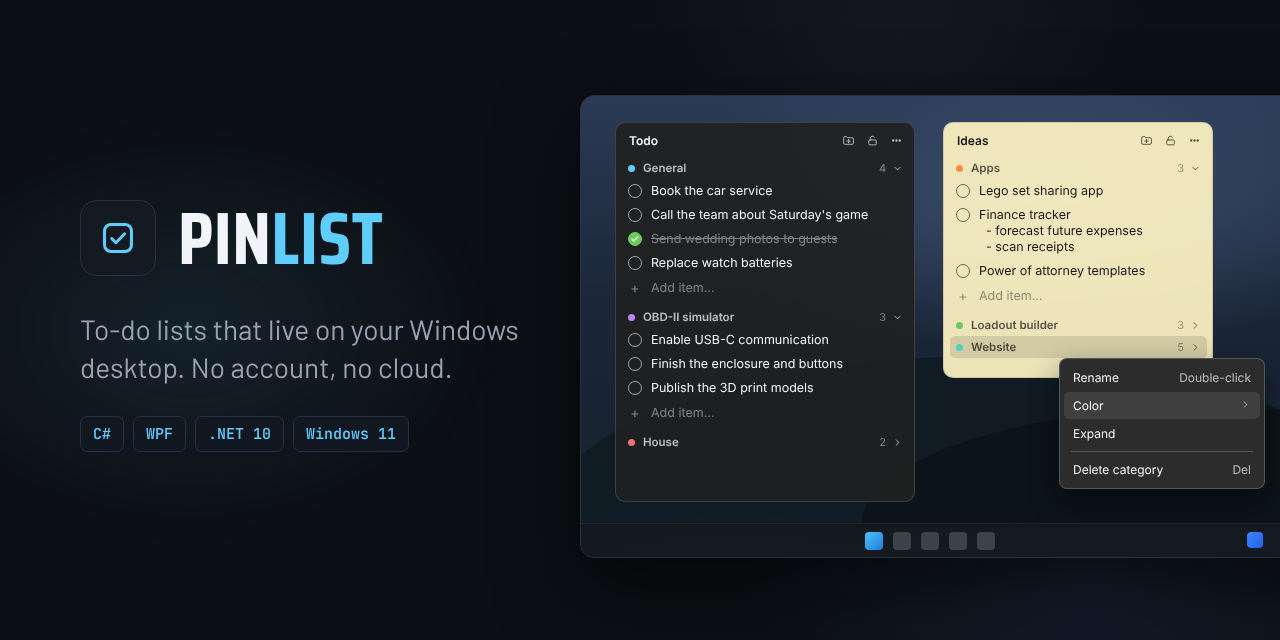
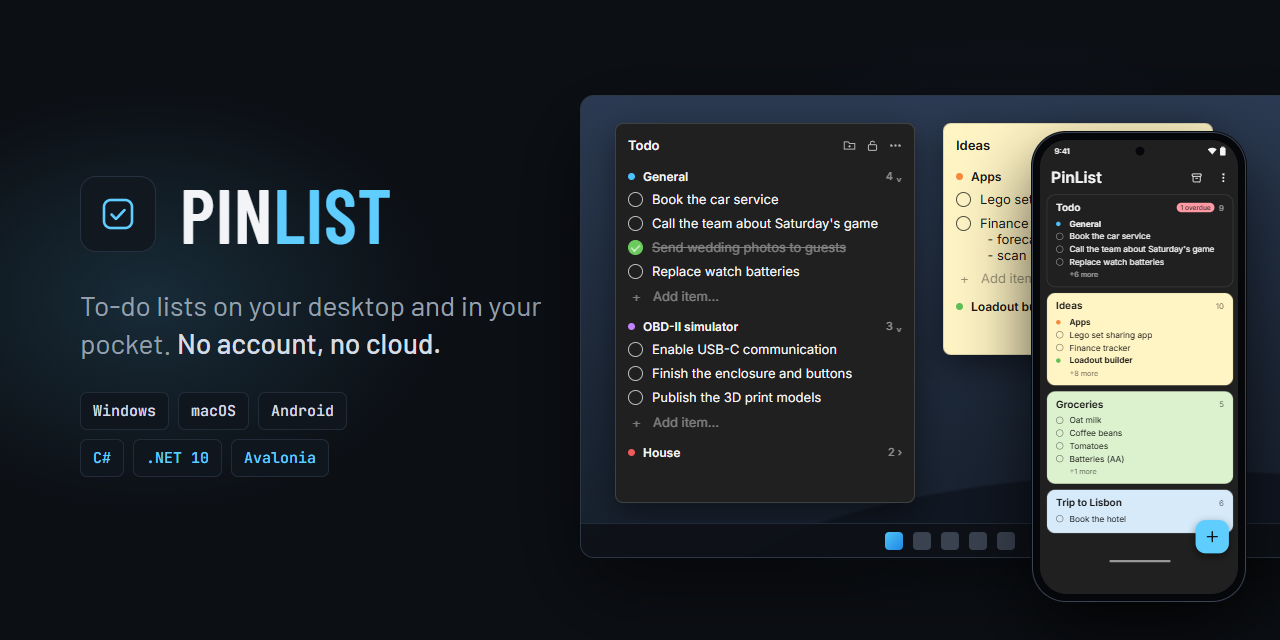
Fix release action

diff --git a/docs/social-preview.html b/docs/social-preview.html
@@ -1,0 +1,272 @@
+<!doctype html>
+<!--
+  Source of docs/social-preview.png (1280 × 640, the GitHub social preview and the README banner).
+  To update the image, edit this file and render it with Chrome:
+    chrome --headless=new --hide-scrollbars --force-device-scale-factor=1 --window-size=1280,640
+           --virtual-time-budget=5000 --screenshot=docs/social-preview.png docs/social-preview.html
+  Colors come from src/PinList.UI/Themes.cs; the phone matches the cards screen in PhoneView.axaml.
+-->
+<html lang="en">
+<head>
+<meta charset="utf-8">
+<title>PinList social preview</title>
+<link rel="preconnect" href="https://fonts.googleapis.com">
+<link href="https://fonts.googleapis.com/css2?family=Barlow:wght@400;500&family=Barlow+Condensed:wght@600&family=Inter:wght@400;500;600&family=JetBrains+Mono:wght@500&display=block" rel="stylesheet">
+<style>
+  :root {
+    --bg: #0c0f14;
+    --accent: #60cdff;
+    --text: #f2f4f7;
+    --muted: #96a0ae;
+  }
+  * { box-sizing: border-box; margin: 0; padding: 0; }
+  html, body { width: 1280px; height: 640px; overflow: hidden; background: var(--bg); }
+  body {
+    position: relative;
+    font-family: Inter, "Segoe UI", sans-serif;
+    color: var(--text);
+    background:
+      radial-gradient(420px 300px at 150px 300px, rgba(52, 110, 140, .30), transparent 70%),
+      radial-gradient(520px 420px at 1000px 330px, rgba(40, 70, 110, .22), transparent 70%),
+      var(--bg);
+  }
+
+  /* ---------- Left: logo, tagline, badges ---------- */
+  .brand { position: absolute; left: 80px; top: 176px; width: 470px; }
+  .logo { display: flex; align-items: center; gap: 24px; }
+  .logo-box {
+    width: 76px; height: 76px; border-radius: 16px;
+    background: #121820; border: 1px solid #253040;
+    display: grid; place-items: center;
+  }
+  .wordmark {
+    font-family: "Barlow Condensed", sans-serif; font-weight: 600;
+    font-size: 76px; line-height: 1; letter-spacing: 1px;
+  }
+  .wordmark span { color: var(--accent); }
+  .tagline {
+    margin-top: 34px;
+    font-family: Barlow, sans-serif; font-size: 28px; line-height: 38px; color: var(--muted);
+  }
+  .tagline b { font-weight: 500; color: #d6dce4; }
+  .badges { margin-top: 30px; display: flex; flex-wrap: wrap; gap: 9px; }
+  .badge {
+    font-family: "JetBrains Mono", monospace; font-weight: 500; font-size: 15px; color: var(--accent);
+    padding: 8px 12px; border-radius: 7px; background: #10161e; border: 1px solid #222c39;
+  }
+  .badge.platform { color: #d6dce4; }
+
+  /* ---------- Right: a desktop with two widgets ---------- */
+  .screen {
+    position: absolute; left: 580px; top: 95px; width: 740px; height: 463px;
+    border-radius: 14px 0 0 14px; overflow: hidden;
+    border: 1px solid #2c3746;
+    background:
+      radial-gradient(900px 260px at 620px 520px, #101722 55%, transparent 56%),
+      linear-gradient(180deg, #2b3a52 0%, #1d2838 60%, #161f2c 100%);
+    box-shadow: 0 30px 80px rgba(0, 0, 0, .55);
+  }
+  .bar {
+    position: absolute; left: 0; right: 0; bottom: 0; height: 34px;
+    background: rgba(12, 16, 22, .88); border-top: 1px solid #222b38;
+    display: flex; justify-content: center; align-items: center; gap: 10px;
+  }
+  .bar i { width: 18px; height: 18px; border-radius: 4px; background: #3a4250; }
+  .bar i:first-child { background: linear-gradient(135deg, #4fc3f7, #1e88e5); }
+
+  .widget {
+    position: absolute; border-radius: 8px; padding: 10px 12px;
+    font-size: 13px; box-shadow: 0 10px 30px rgba(0, 0, 0, .45);
+  }
+  .widget.dark { background: #202020; border: 1px solid rgba(255, 255, 255, .15); color: rgba(255, 255, 255, .95); }
+  .widget.yellow { background: #fff4c4; border: 1px solid rgba(0, 0, 0, .12); color: rgba(0, 0, 0, .9); }
+  .w-head { display: flex; align-items: center; justify-content: space-between; height: 22px; margin-bottom: 8px; }
+  .w-head b { font-weight: 600; font-size: 13px; }
+  .w-icons { display: flex; gap: 10px; opacity: .7; }
+  .cat { display: flex; align-items: center; gap: 8px; height: 24px; font-size: 12px; font-weight: 600; }
+  .dot { width: 7px; height: 7px; border-radius: 50%; }
+  .cat .n { margin-left: auto; font-weight: 400; opacity: .55; font-size: 11px; display: flex; gap: 6px; align-items: center; }
+  .item { display: flex; align-items: flex-start; gap: 9px; min-height: 24px; padding: 3px 0; line-height: 16px; }
+  .circle { flex: none; width: 15px; height: 15px; border-radius: 50%; border: 1.4px solid currentColor; opacity: .75; margin-top: 1px; }
+  .item.done span { text-decoration: line-through; opacity: .45; }
+  .item.done .circle { background: #6ccb5f; border-color: #6ccb5f; opacity: 1; position: relative; }
+  .item.done .circle::after {
+    content: ""; position: absolute; left: 4px; top: 1.5px; width: 4px; height: 7px;
+    border: solid #fff; border-width: 0 1.6px 1.6px 0; transform: rotate(45deg);
+  }
+  .add { display: flex; gap: 10px; align-items: center; height: 24px; opacity: .45; padding-left: 2px; }
+
+  /* ---------- The phone (Android cards screen, dark theme) ---------- */
+  .phone {
+    position: absolute; left: 1032px; top: 132px; width: 214px; height: 470px;
+    border-radius: 34px; padding: 7px; background: #05070a;
+    border: 1.5px solid #3a4352;
+    box-shadow: 0 30px 70px rgba(0, 0, 0, .7), 0 0 0 1px #0b0e13;
+  }
+  .phone-screen {
+    position: relative; width: 100%; height: 100%; border-radius: 27px; overflow: hidden; background: #202020;
+  }
+  /* The screen is drawn at real Android size (360 dp wide) and scaled down */
+  .app {
+    position: absolute; left: 0; top: 0; width: 360px; height: 768px;
+    transform: scale(.5556); transform-origin: 0 0;
+    font-size: 16px; color: rgba(255, 255, 255, .95);
+  }
+  .status { height: 34px; display: flex; align-items: center; justify-content: space-between; padding: 6px 26px 0; font-size: 14px; font-weight: 500; }
+  .status .cam { position: absolute; left: 50%; top: 12px; width: 16px; height: 16px; margin-left: -8px; border-radius: 50%; background: #05070a; }
+  .status .sys { display: flex; gap: 6px; align-items: center; }
+  .home-head { display: flex; align-items: center; margin: 10px 6px 6px 20px; height: 48px; }
+  .home-head h1 { font-size: 28px; font-weight: 600; flex: 1; }
+  .home-head .btn { width: 48px; height: 48px; display: grid; place-items: center; }
+  .card {
+    margin: 0 12px 10px; padding: 12px 16px 14px; border-radius: 16px; border: 1px solid;
+  }
+  .card.dark { background: #202020; border-color: rgba(255, 255, 255, .15); color: rgba(255, 255, 255, .95); }
+  .card.dark .muted { color: rgba(255, 255, 255, .55); }
+  .card.yellow { background: #fff4c4; border-color: rgba(0, 0, 0, .12); color: rgba(0, 0, 0, .9); }
+  .card.green { background: #dcf2ce; border-color: rgba(0, 0, 0, .12); color: rgba(0, 0, 0, .9); }
+  .card.blue { background: #d6eafa; border-color: rgba(0, 0, 0, .12); color: rgba(0, 0, 0, .9); }
+  .card .muted { color: rgba(0, 0, 0, .59); }
+  .card-head { display: flex; align-items: center; margin-bottom: 7px; }
+  .card-head b { flex: 1; font-size: 18px; font-weight: 600; }
+  .pill { font-size: 12px; padding: 1px 7px; border-radius: 9px; margin: 0 8px; }
+  .card.dark .pill { background: #ff99a4; color: #202020; }
+  .card-head .muted { font-size: 14px; }
+  .line { display: flex; align-items: center; height: 23px; font-size: 15px; white-space: nowrap; }
+  .line .lead { width: 24px; flex: none; }
+  .line .lead .dot { width: 8px; height: 8px; }
+  .line .lead .ring { width: 13px; height: 13px; border-radius: 50%; border: 1.4px solid currentColor; opacity: .6; }
+  .line.c { font-weight: 600; }
+  .line span { overflow: hidden; text-overflow: ellipsis; }
+  .more { font-size: 13px; margin: 3px 0 0 24px; }
+  .fab {
+    position: absolute; right: 20px; bottom: 24px; width: 60px; height: 60px; border-radius: 18px;
+    background: #60cdff; display: grid; place-items: center; box-shadow: 0 6px 16px rgba(0, 0, 0, .45);
+  }
+  .gesture { position: absolute; left: 50%; bottom: 8px; width: 110px; height: 4px; margin-left: -55px; border-radius: 2px; background: rgba(255, 255, 255, .55); }
+</style>
+</head>
+<body>
+
+  <div class="brand">
+    <div class="logo">
+      <div class="logo-box">
+        <svg width="34" height="34" viewBox="0 0 34 34" fill="none" stroke="#60cdff" stroke-width="2.6" stroke-linecap="round" stroke-linejoin="round">
+          <rect x="3" y="3" width="28" height="28" rx="7"/>
+          <path d="M10.5 17.5l4.5 4.5 8.5-9"/>
+        </svg>
+      </div>
+      <div class="wordmark">PIN<span>LIST</span></div>
+    </div>
+    <p class="tagline">To-do lists on your desktop and in your pocket. <b>No account, no cloud.</b></p>
+    <div class="badges">
+      <span class="badge platform">Windows</span>
+      <span class="badge platform">macOS</span>
+      <span class="badge platform">Android</span>
+    </div>
+    <div class="badges" style="margin-top: 9px">
+      <span class="badge">C#</span>
+      <span class="badge">.NET 10</span>
+      <span class="badge">Avalonia</span>
+    </div>
+  </div>
+
+  <div class="screen">
+    <!-- Todo widget (dark) -->
+    <div class="widget dark" style="left: 34px; top: 27px; width: 300px; height: 380px">
+      <div class="w-head"><b>Todo</b>
+        <div class="w-icons">
+          <svg width="13" height="13" viewBox="0 0 16 16" fill="none" stroke="currentColor" stroke-width="1.3"><path d="M1.5 4.5v8h13v-7H8L6.5 3.5h-5z"/><path d="M8 7.5v3M6.5 9h3"/></svg>
+          <svg width="13" height="13" viewBox="0 0 16 16" fill="none" stroke="currentColor" stroke-width="1.3"><rect x="3" y="7" width="10" height="7" rx="1.5"/><path d="M5.5 7V5a2.5 2.5 0 0 1 5 0"/></svg>
+          <svg width="13" height="13" viewBox="0 0 16 16" fill="currentColor"><circle cx="3" cy="8" r="1.4"/><circle cx="8" cy="8" r="1.4"/><circle cx="13" cy="8" r="1.4"/></svg>
+        </div>
+      </div>
+      <div class="cat"><i class="dot" style="background:#4cc2ff"></i>General<span class="n">4 ⌄</span></div>
+      <div class="item"><i class="circle"></i><span>Book the car service</span></div>
+      <div class="item"><i class="circle"></i><span>Call the team about Saturday's game</span></div>
+      <div class="item done"><i class="circle"></i><span>Send wedding photos to guests</span></div>
+      <div class="item"><i class="circle"></i><span>Replace watch batteries</span></div>
+      <div class="add">＋ <span>Add item…</span></div>
+      <div class="cat" style="margin-top: 6px"><i class="dot" style="background:#c084fc"></i>OBD-II simulator<span class="n">3 ⌄</span></div>
+      <div class="item"><i class="circle"></i><span>Enable USB-C communication</span></div>
+      <div class="item"><i class="circle"></i><span>Finish the enclosure and buttons</span></div>
+      <div class="item"><i class="circle"></i><span>Publish the 3D print models</span></div>
+      <div class="add">＋ <span>Add item…</span></div>
+      <div class="cat" style="margin-top: 6px"><i class="dot" style="background:#ef5b5b"></i>House<span class="n">2 ›</span></div>
+    </div>
+
+    <!-- Ideas widget (yellow) -->
+    <div class="widget yellow" style="left: 362px; top: 27px; width: 270px; height: 232px">
+      <div class="w-head"><b>Ideas</b>
+        <div class="w-icons">
+          <svg width="13" height="13" viewBox="0 0 16 16" fill="none" stroke="currentColor" stroke-width="1.3"><path d="M1.5 4.5v8h13v-7H8L6.5 3.5h-5z"/><path d="M8 7.5v3M6.5 9h3"/></svg>
+          <svg width="13" height="13" viewBox="0 0 16 16" fill="none" stroke="currentColor" stroke-width="1.3"><rect x="3" y="7" width="10" height="7" rx="1.5"/><path d="M5.5 7V5a2.5 2.5 0 0 1 5 0"/></svg>
+          <svg width="13" height="13" viewBox="0 0 16 16" fill="currentColor"><circle cx="3" cy="8" r="1.4"/><circle cx="8" cy="8" r="1.4"/><circle cx="13" cy="8" r="1.4"/></svg>
+        </div>
+      </div>
+      <div class="cat"><i class="dot" style="background:#f7893b"></i>Apps<span class="n">2 ⌄</span></div>
+      <div class="item"><i class="circle"></i><span>Lego set sharing app</span></div>
+      <div class="item"><i class="circle"></i><span>Finance tracker<br>&nbsp;&nbsp;- forecast future expenses<br>&nbsp;&nbsp;- scan receipts</span></div>
+      <div class="add">＋ <span>Add item…</span></div>
+      <div class="cat" style="margin-top: 4px"><i class="dot" style="background:#5fbf55"></i>Loadout builder<span class="n">3 ›</span></div>
+    </div>
+
+    <div class="bar"><i></i><i></i><i></i><i></i><i></i></div>
+  </div>
+
+  <div class="phone">
+    <div class="phone-screen">
+      <div class="app">
+        <div class="status">
+          <span>9:41</span><i class="cam"></i>
+          <span class="sys">
+            <svg width="16" height="14" viewBox="0 0 16 14" fill="currentColor"><path d="M8 13 0 4a12 12 0 0 1 16 0z"/></svg>
+            <svg width="10" height="16" viewBox="0 0 10 16" fill="currentColor"><rect x="2" y="0" width="6" height="2" rx="1"/><rect x="0" y="2" width="10" height="14" rx="2"/></svg>
+          </span>
+        </div>
+        <div class="home-head">
+          <h1>PinList</h1>
+          <span class="btn"><svg width="20" height="20" viewBox="0 0 20 20" fill="none" stroke="currentColor" stroke-width="1.6"><rect x="2" y="3" width="16" height="4.5" rx="1.2"/><path d="M3.5 7.5v8.5a1.5 1.5 0 0 0 1.5 1.5h10a1.5 1.5 0 0 0 1.5-1.5V7.5M8 11h4"/></svg></span>
+          <span class="btn"><svg width="20" height="20" viewBox="0 0 20 20" fill="currentColor"><circle cx="10" cy="4" r="1.7"/><circle cx="10" cy="10" r="1.7"/><circle cx="10" cy="16" r="1.7"/></svg></span>
+        </div>
+
+        <div class="card dark">
+          <div class="card-head"><b>Todo</b><span class="pill">1 overdue</span><span class="muted">9</span></div>
+          <div class="line c"><span class="lead"><i class="dot" style="display:block;background:#4cc2ff"></i></span><span>General</span></div>
+          <div class="line"><span class="lead"><i class="ring" style="display:block"></i></span><span>Book the car service</span></div>
+          <div class="line"><span class="lead"><i class="ring" style="display:block"></i></span><span>Call the team about Saturday's game</span></div>
+          <div class="line"><span class="lead"><i class="ring" style="display:block"></i></span><span>Replace watch batteries</span></div>
+          <div class="more muted">+6 more</div>
+        </div>
+
+        <div class="card yellow">
+          <div class="card-head"><b>Ideas</b><span class="muted">10</span></div>
+          <div class="line c"><span class="lead"><i class="dot" style="display:block;background:#f7893b"></i></span><span>Apps</span></div>
+          <div class="line"><span class="lead"><i class="ring" style="display:block"></i></span><span>Lego set sharing app</span></div>
+          <div class="line"><span class="lead"><i class="ring" style="display:block"></i></span><span>Finance tracker</span></div>
+          <div class="line c"><span class="lead"><i class="dot" style="display:block;background:#5fbf55"></i></span><span>Loadout builder</span></div>
+          <div class="more muted">+8 more</div>
+        </div>
+
+        <div class="card green">
+          <div class="card-head"><b>Groceries</b><span class="muted">5</span></div>
+          <div class="line"><span class="lead"><i class="ring" style="display:block"></i></span><span>Oat milk</span></div>
+          <div class="line"><span class="lead"><i class="ring" style="display:block"></i></span><span>Coffee beans</span></div>
+          <div class="line"><span class="lead"><i class="ring" style="display:block"></i></span><span>Tomatoes</span></div>
+          <div class="line"><span class="lead"><i class="ring" style="display:block"></i></span><span>Batteries (AA)</span></div>
+          <div class="more muted">+1 more</div>
+        </div>
+
+        <div class="card blue">
+          <div class="card-head"><b>Trip to Lisbon</b><span class="muted">6</span></div>
+          <div class="line"><span class="lead"><i class="ring" style="display:block"></i></span><span>Book the hotel</span></div>
+        </div>
+
+        <div class="fab"><svg width="22" height="22" viewBox="0 0 22 22" stroke="#000" stroke-width="2.2" stroke-linecap="round"><path d="M11 2v18M2 11h18"/></svg></div>
+        <i class="gesture"></i>
+      </div>
+    </div>
+  </div>
+
+</body>
+</html>

diff --git a/README.md b/README.md
@@ -1,5 +1,5 @@
 <p align="center">
-  <img src="docs/social-preview.png" width="100%" alt="PinList – to-do lists that live on your Windows desktop">
+  <img src="docs/social-preview.png" width="100%" alt="PinList – to-do lists on your desktop (Windows and macOS) and on your Android phone">
 </p>
 
 # PinList
@@ -26,7 +26,7 @@ To-do lists pinned to your desktop – on **Windows** and **macOS** – and in y
 | | |
 |---|---|
 | **Windows** | Windows 10 or 11 (x64) and the [.NET 10 Desktop Runtime](https://dotnet.microsoft.com/download/dotnet/10.0) (free, from Microsoft). If it's missing, Windows offers a download link the first time you start PinList. |
-| **macOS** | A Mac with Apple Silicon (M1 or newer). Nothing else to install. |
+| **macOS** | macOS 12 Monterey or newer, on a Mac with Apple Silicon (M1 or newer). Nothing else to install. |
 | **Android** | Android 8.0 or newer. |
 
 ## Download
@@ -223,14 +223,14 @@ keytool -genkeypair -v -keystore pinlist-release.keystore -alias pinlist -keyalg
 
 (`keytool` comes with Android Studio: `C:\Program Files\Android\Android Studio\jbr\bin\keytool.exe`.) Then add three secrets under **Settings → Secrets and variables → Actions**: `ANDROID_KEYSTORE_BASE64` (the clipboard), `ANDROID_KEYSTORE_PASSWORD` (the password you chose) and `ANDROID_KEY_ALIAS` (`pinlist`).
 
-Every push and pull request to `master` is also built (warnings count as errors) and tested by `.github/workflows/build.yml`, so a broken build shows up right away. Dependabot opens pull requests when the GitHub Actions or test packages have updates.
+Every push and pull request to `master` is also built (warnings count as errors) and tested by `.github/workflows/build.yml`, which also builds the Windows exe, the Mac app and the Android APK the same way the release does, so a broken build shows up before you tag. Dependabot opens pull requests when the GitHub Actions or test packages have updates.
 
 ## Project structure
 
 ```
 pin-list/
 ├─ .github/                 CI (build + tests, releases) and Dependabot
-├─ docs/                    data-format.md, social preview image
+├─ docs/                    data-format.md, social preview image (social-preview.html is its source)
 ├─ scripts/                 run.bat, publish.bat, package-mac.sh
 ├─ Version.props            the version of every app
 ├─ src/PinList.Core/        no UI, runs everywhere
